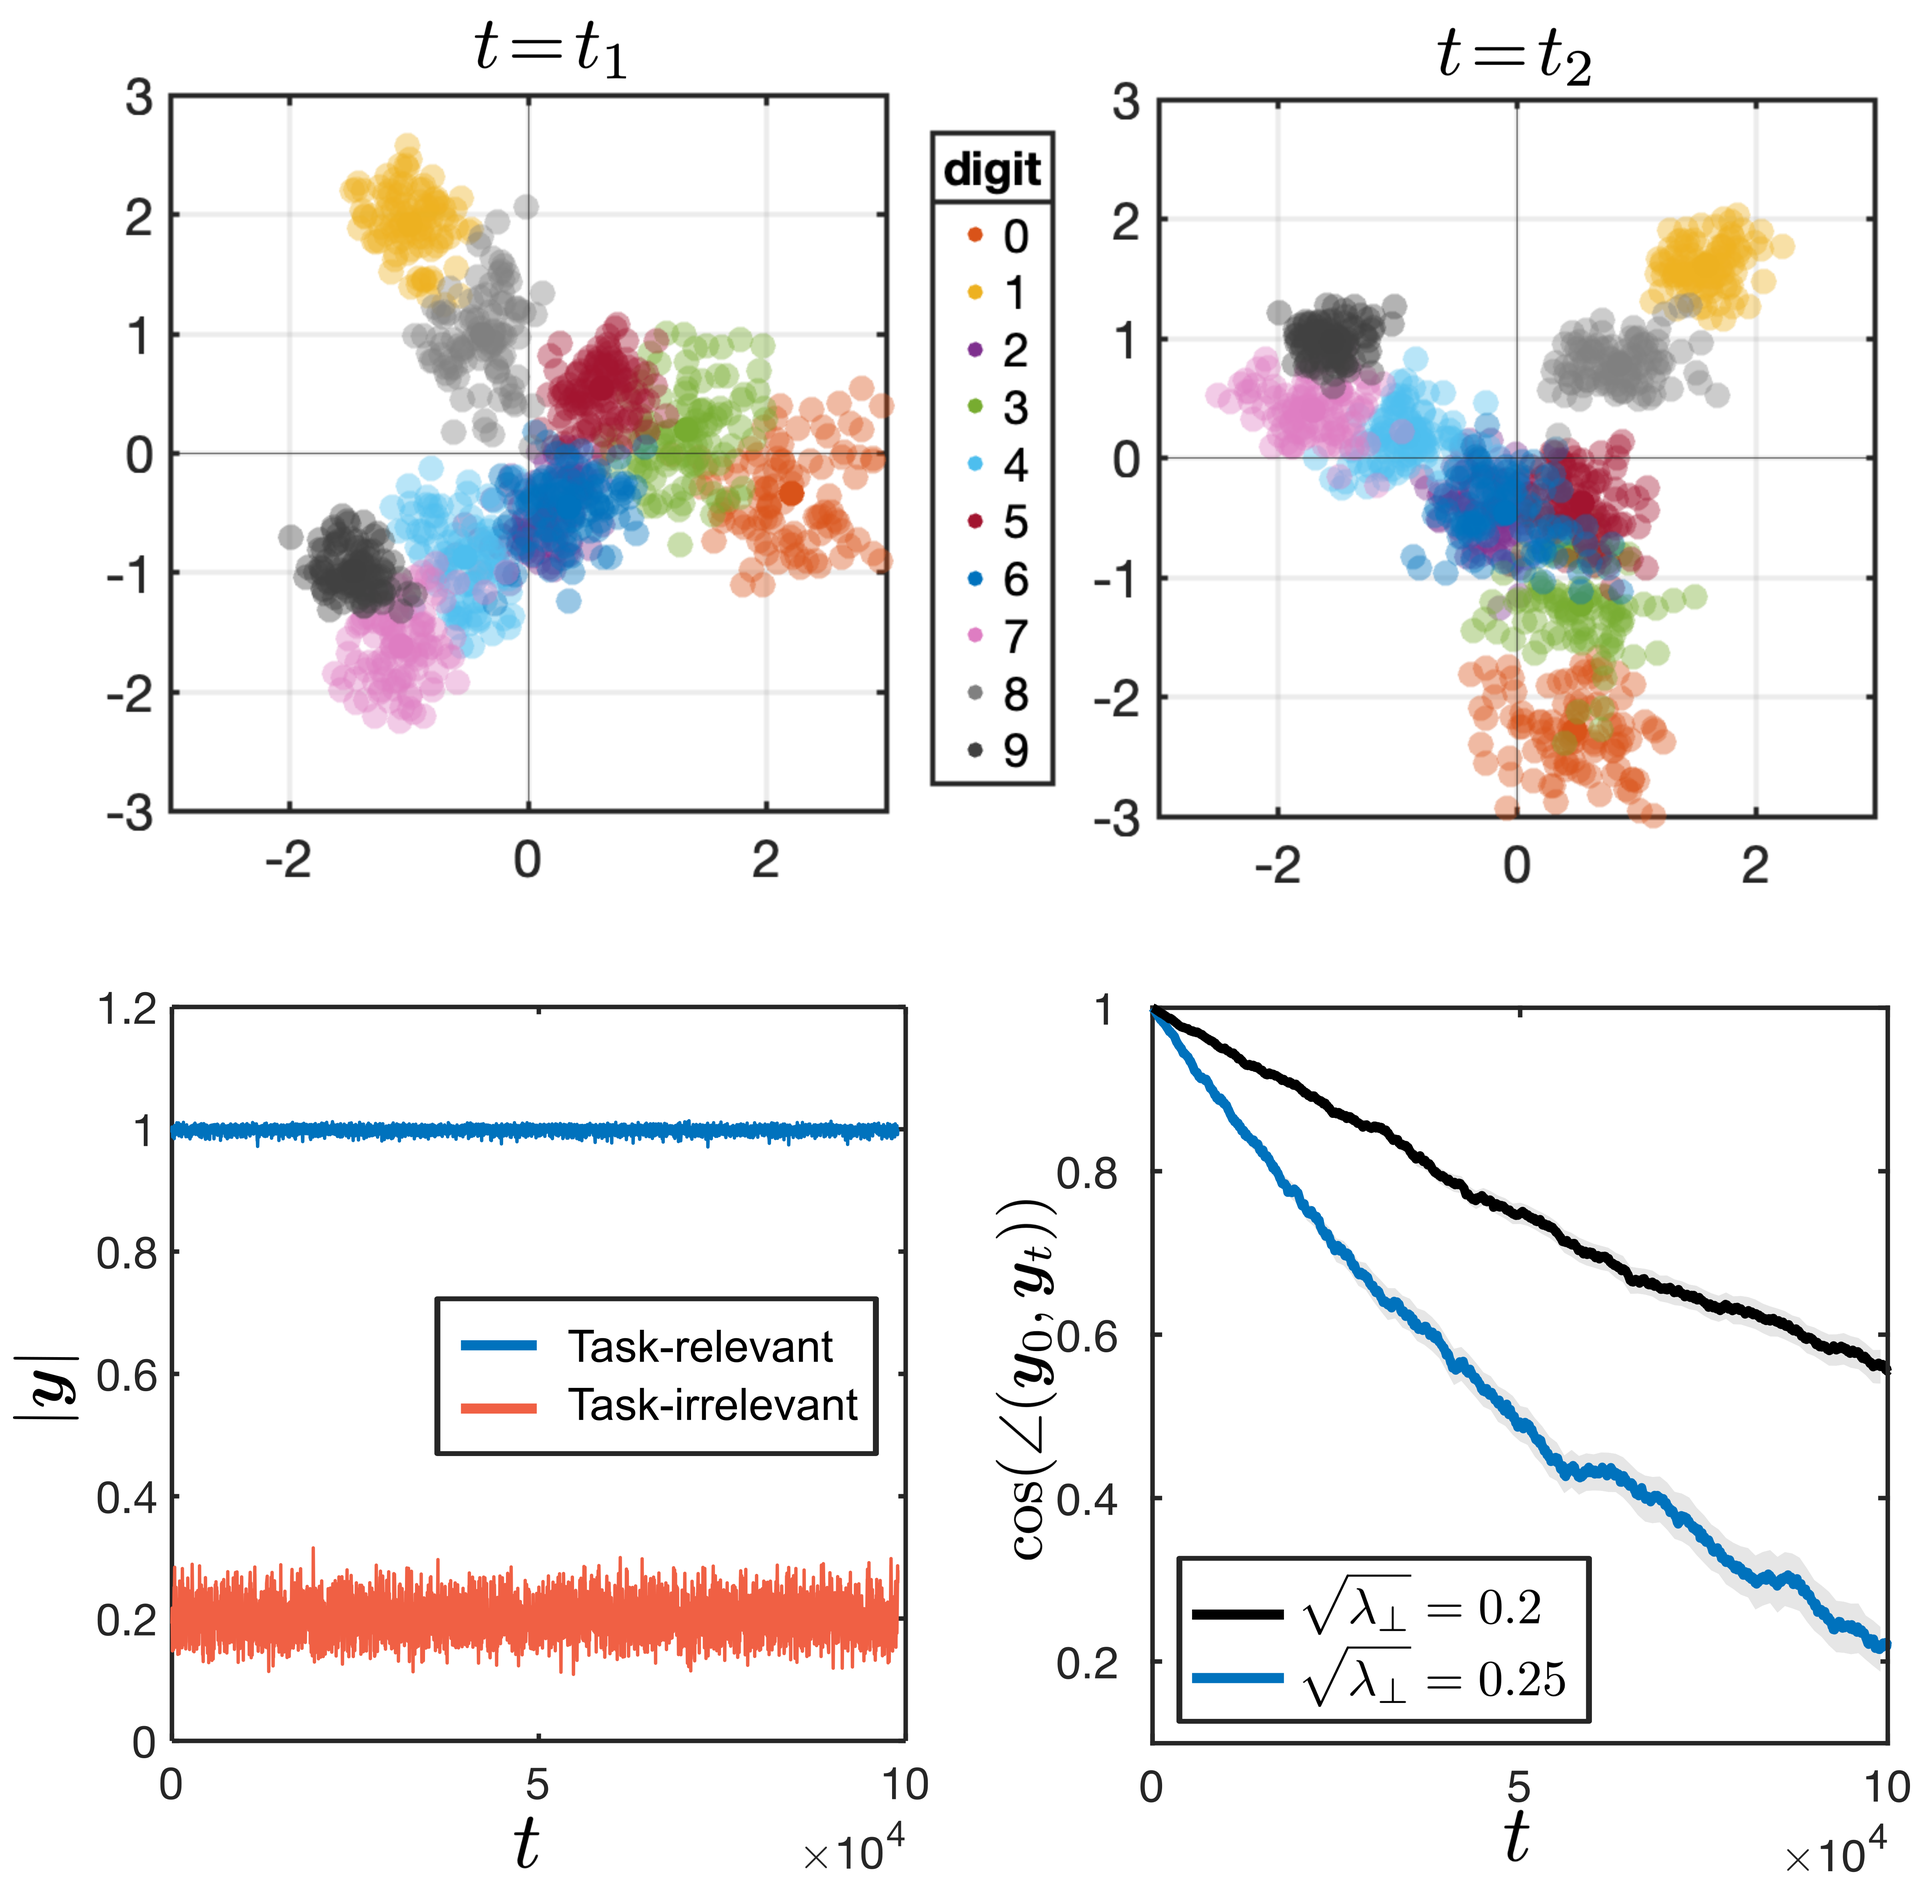
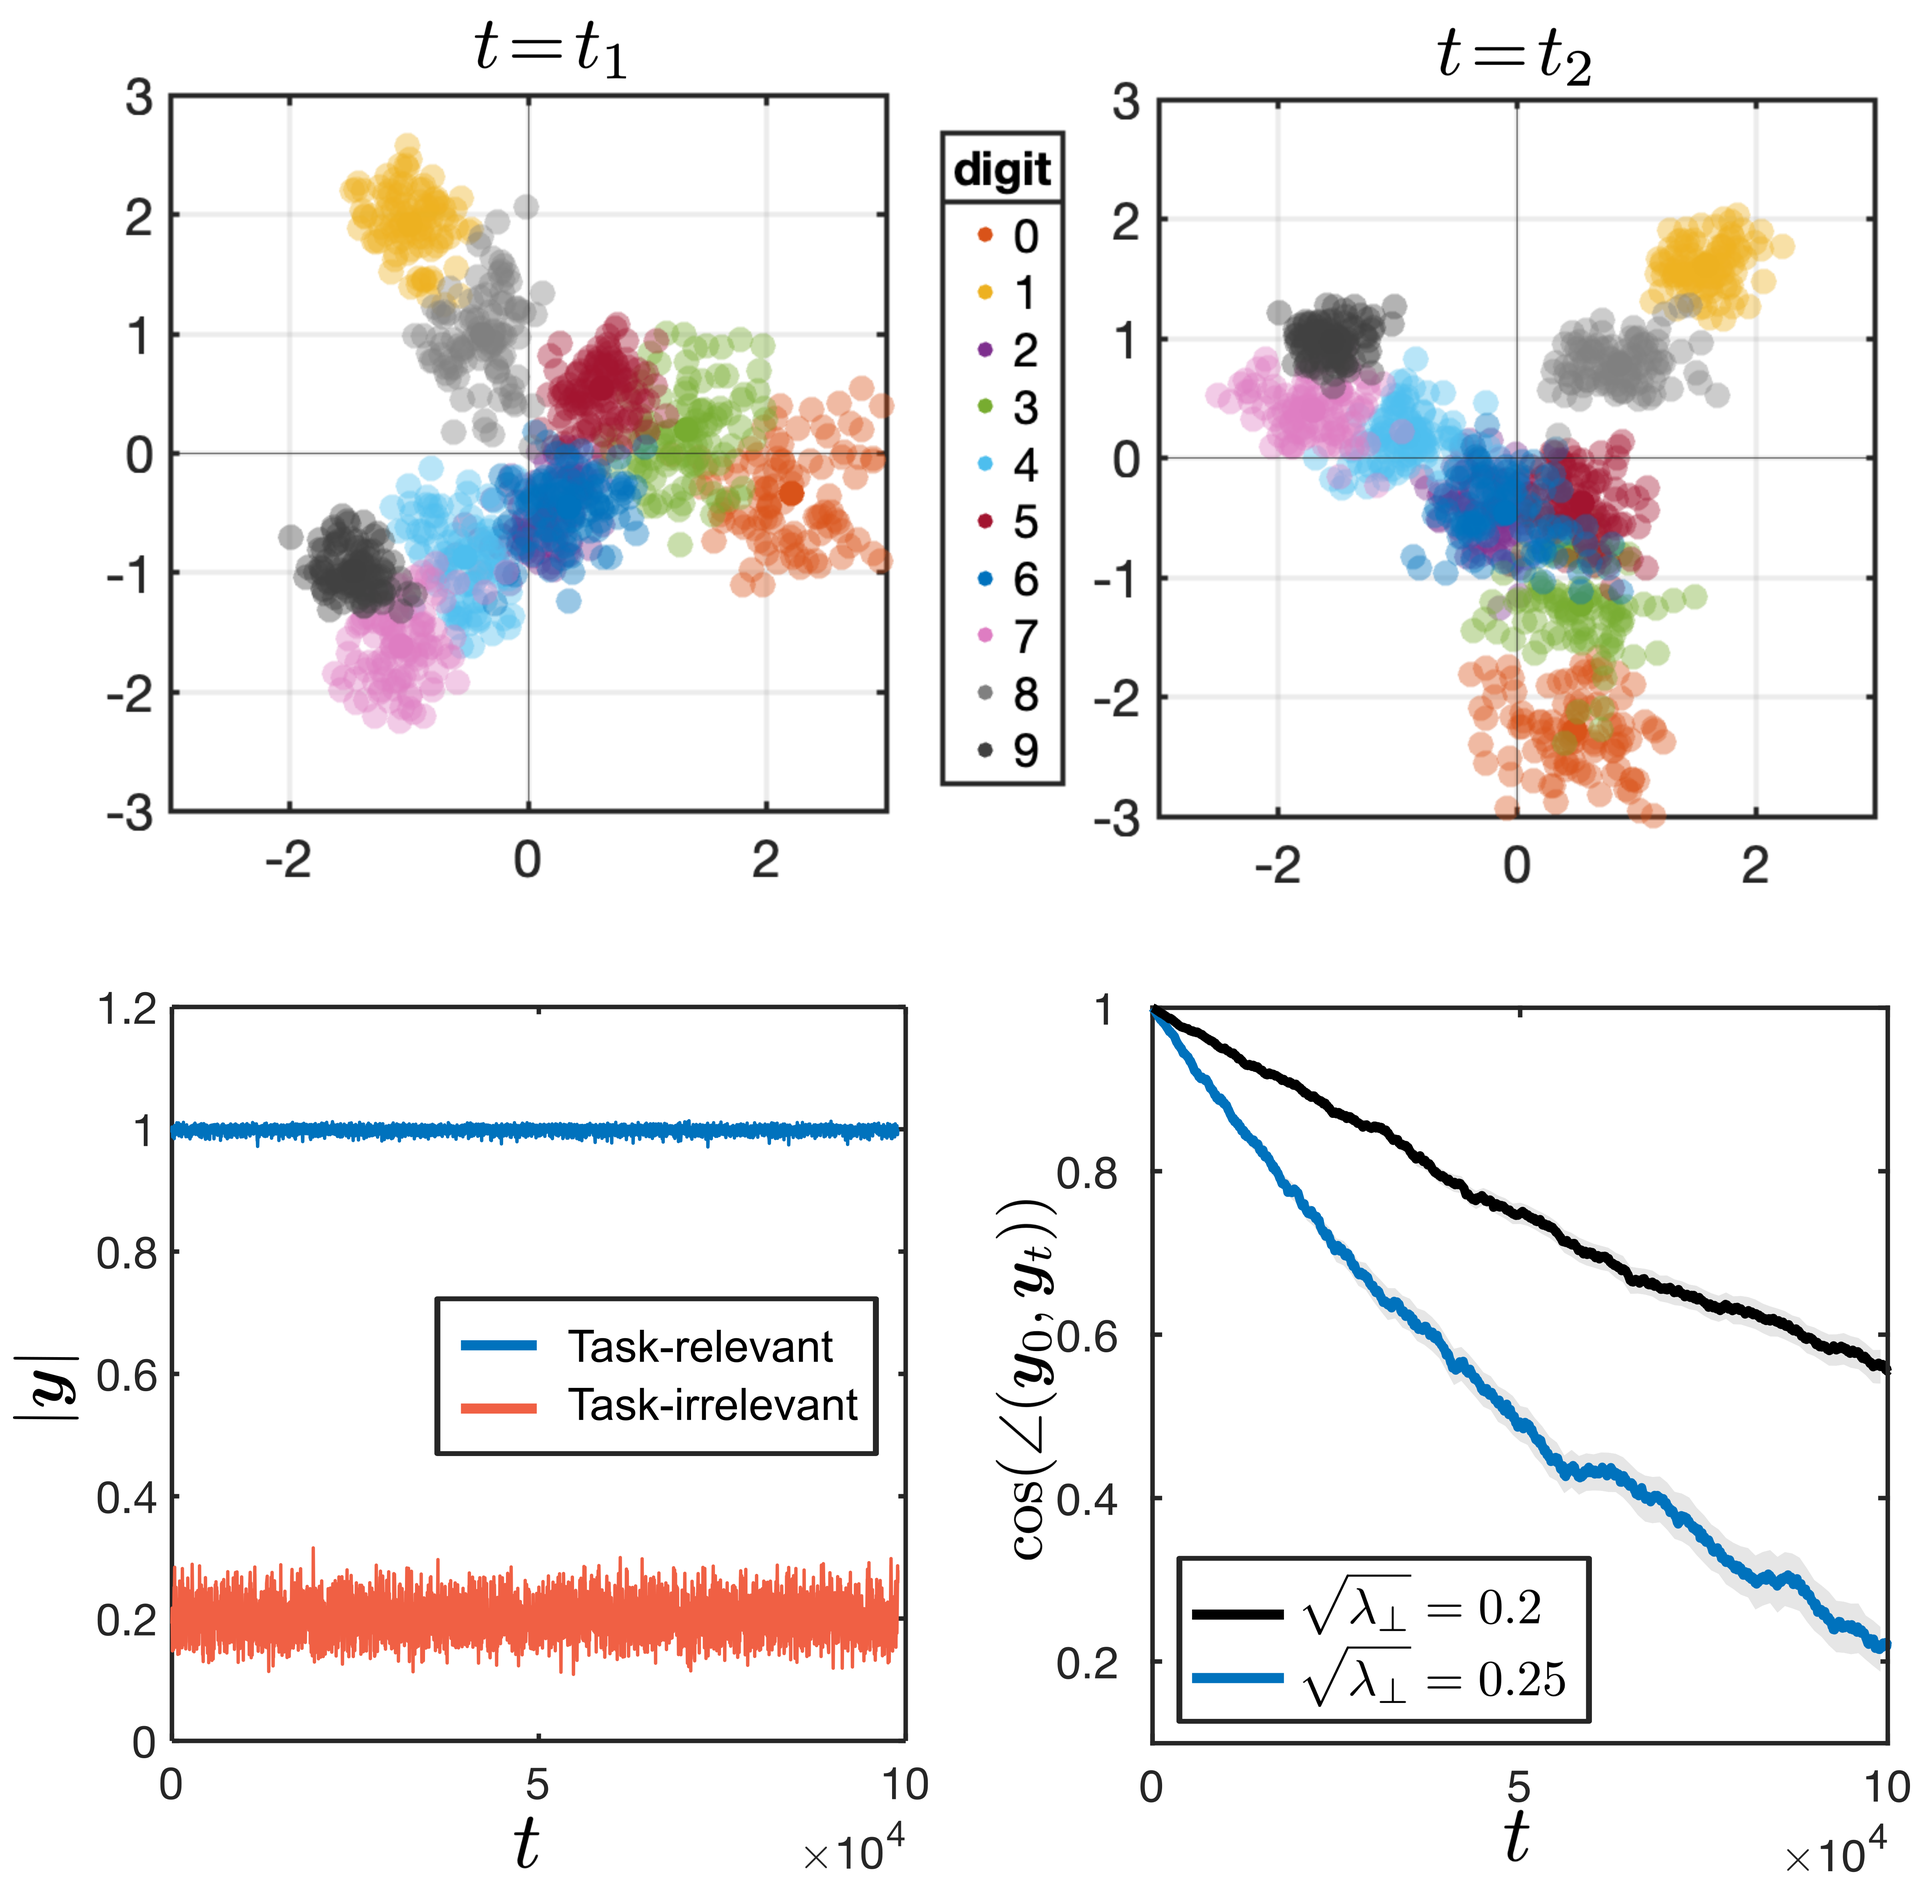
Updated site

Changed region(s): [[0.4685, 0.0623, 0.5621, 0.4047]]

diff --git a/_pages/about.md b/_pages/about.md
@@ -83,6 +83,10 @@ ___
      Contribution of task-irrelevant stimuli to drift of neural representations
     </a><br>
     <strong>Farhad Pashakhanloo</strong>, Advances in Neural Information Processing Systems (NeurIPS) 39 (2025).<br>
+See <a href="https://mghpcc.org/sc/project/learning-beyond-attention/" target="_blank" style="color: #6aabc5ff; text-decoration: none;">
+  MGHPCC feature
+</a>.<br>
+</a><br>
     <br>
   </span>
 </div>
